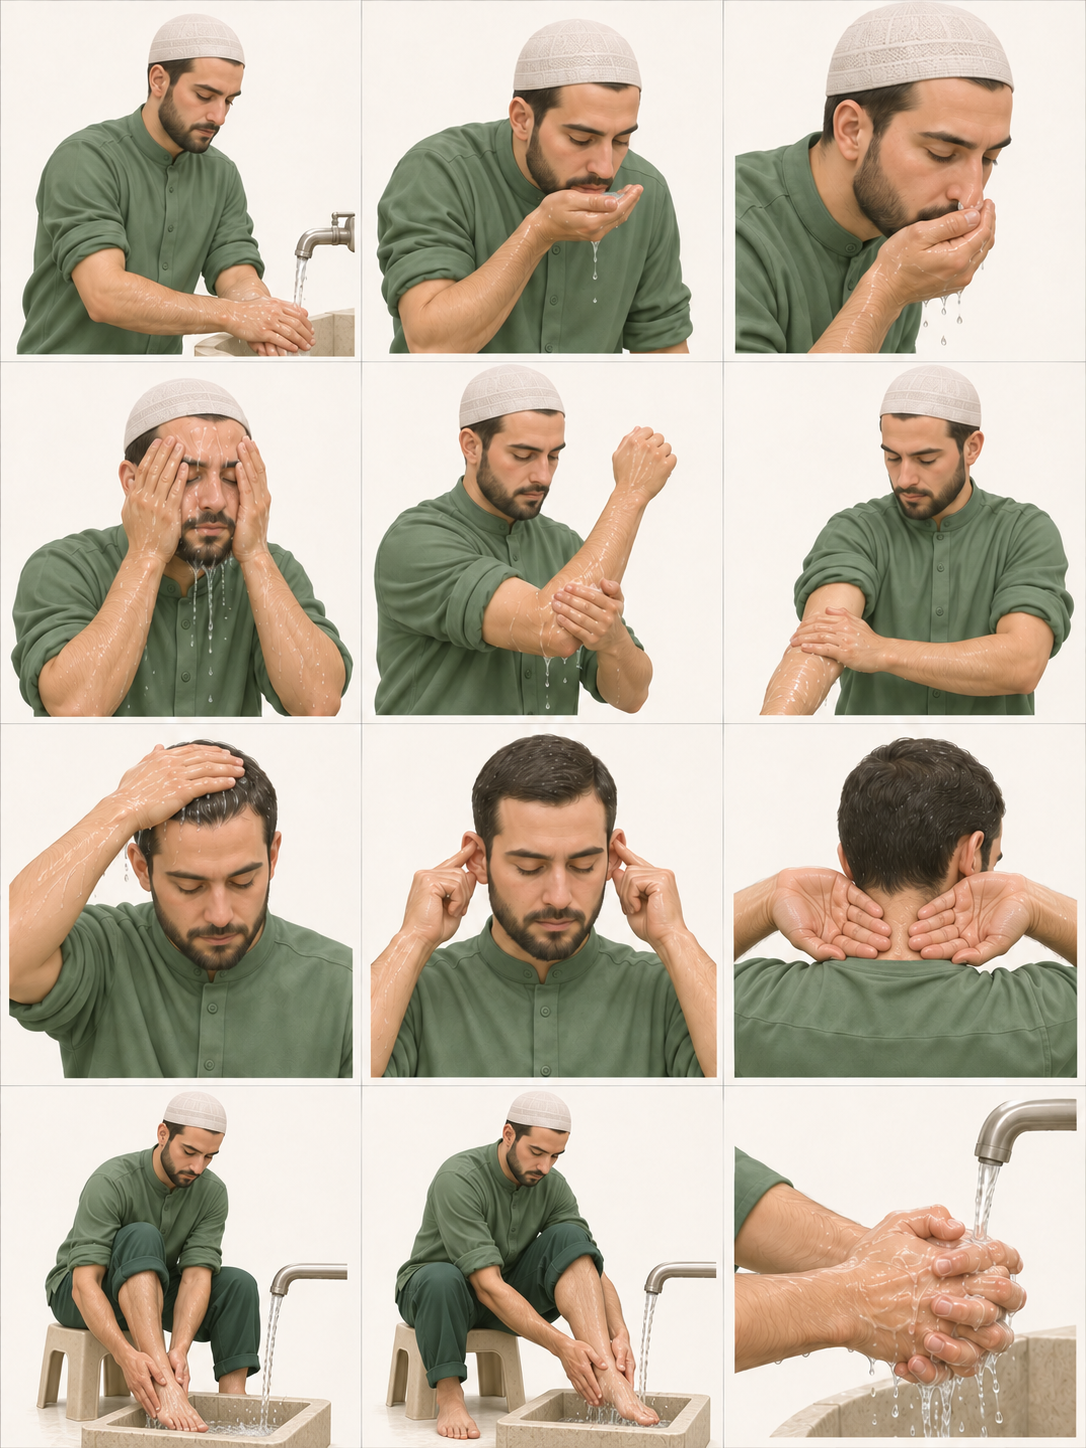
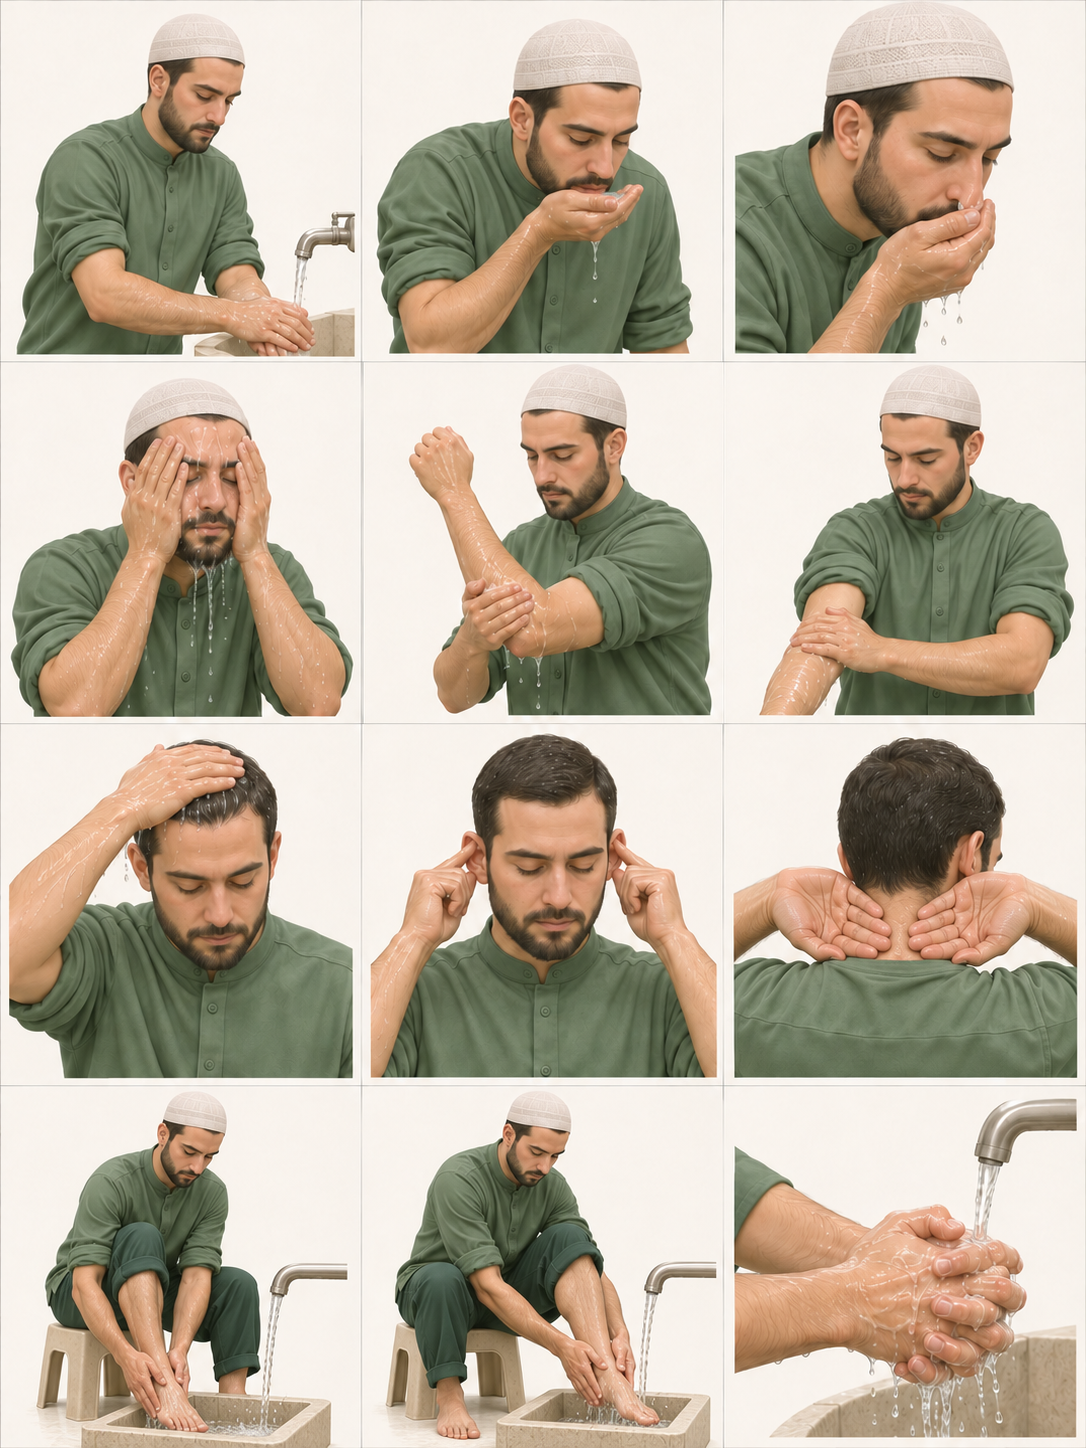
abdestduzeltmesi

Changed region(s): [[0.3343, 0.2486, 0.6685, 0.4972]]

diff --git a/assets/abdest.js b/assets/abdest.js
@@ -3,14 +3,14 @@ const data=[
  {name:'Niyet ve ellerin yıkanması',tile:0,count:'3 defa',kind:'Başlangıç ve sünnet',text:'Abdest almaya niyet edilir, besmele çekilir. İki el bileklere kadar yıkanır.',detail:'Parmak araları',note:'Parmak aralarını ovuşturarak suyun her yere ulaşmasını sağlayın.',zoom:11},
  {name:'Ağza su verilmesi',tile:1,count:'3 defa',kind:'Sünnet',text:'Sağ elle ağza su alınır. Ağız çalkalanır ve su dışarı çıkarılır.',detail:'Sağ el kullanılır',note:'Her çalkalamada yeniden su alınır; su yutulmaz.'},
  {name:'Burna su verilmesi',tile:2,count:'3 defa',kind:'Sünnet',text:'Sağ elle burna su alınır, ardından burun sol elle temizlenir.',detail:'Nazikçe temizleyin',note:'Oruçluyken ağza ve burna su verirken aşırıya kaçılmaz.'},
- {name:'Yüzün yıkanması',tile:3,count:'3 defa',kind:'İlk tam yıkama farz',text:'Alında saçın başladığı yerden çene altına ve iki kulak arasına kadar yüz yıkanır.',detail:'Yüzün sınırları',note:'Kuru yer bırakmayın; suyu gözlerin içine sokmak gerekmez.'},
- {name:'Sağ kolun yıkanması',tile:5,count:'3 defa',kind:'İlk tam yıkama farz',text:'Sağ kol, elden dirseğe kadar yıkanır. Dirsek de yıkamaya dâhildir.',detail:'Dirseği de yıkayın',note:'Suyu kolun her tarafına ulaştırın. Sağ ve sol, abdest alan kişinin kendi yönleridir.'},
- {name:'Sol kolun yıkanması',tile:4,count:'3 defa',kind:'İlk tam yıkama farz',text:'Aynı şekilde sol kol, dirsek dâhil yıkanır.',detail:'Kolun tamamı',note:'Kolun iç ve dış tarafında, dirsek çevresinde kuru yer bırakmayın.'},
+ {name:'Yüzün yıkanması',tile:3,count:'3 defa',kind:'1 defa farz · 3 defa sünnet',text:'Alında saçın başladığı yerden çene altına ve iki kulak arasına kadar yüz yıkanır.',detail:'Yüzün sınırları',note:'Kuru yer bırakmayın; suyu gözlerin içine sokmak gerekmez.'},
+ {name:'Sağ kolun yıkanması',tile:5,count:'3 defa',kind:'1 defa farz · 3 defa sünnet',text:'Sağ kol, elden dirseğe kadar yıkanır. Dirsek de yıkamaya dâhildir.',detail:'Dirseği de yıkayın',note:'Suyu kolun her tarafına ulaştırın. Sağ ve sol, abdest alan kişinin kendi yönleridir.'},
+ {name:'Sol kolun yıkanması',tile:4,count:'3 defa',kind:'1 defa farz · 3 defa sünnet',text:'Aynı şekilde sol kol, dirsek dâhil yıkanır.',detail:'Kolun tamamı',note:'Kolun iç ve dış tarafında, dirsek çevresinde kuru yer bırakmayın.'},
  {name:'Başın mesh edilmesi',tile:6,count:'1 defa',kind:'En az dörtte biri farz',text:'Islak el başa sürülerek mesh edilir. Hanefî uygulamasında başın en az dörtte biri mesh edilir; tamamının mesh edilmesi sünnettir.',detail:'El doğrudan başa temas eder',note:'Takke veya başörtüsünün üzerinden silmek yeterli değildir. Bacılar ellerini örtünün altına sokarak başlarını mesh edebilirler.'},
  {name:'Kulakların mesh edilmesi',tile:7,count:'1 defa',kind:'Sünnet',text:'Islak parmaklarla kulakların iç kıvrımları ve arkaları mesh edilir.',detail:'İç ve dış kısım',note:'İşaret parmakları iç kıvrımlara, başparmaklar kulakların arkasına sürülür. Kulaklar nazikçe mesh edilir.'},
- {name:'Boynun mesh edilmesi',tile:8,count:'1 defa',kind:'Âdâb · farz değildir',text:'İki elin arkasıyla ense ve boynun arka kısmı mesh edilir.',detail:'Elin arkası kullanılır',note:'Avuç içiyle boğaz sıvazlanmaz. Bu adım abdestin dört farzından biri değildir.'},
- {name:'Sağ ayağın yıkanması',tile:9,count:'3 defa',kind:'İlk tam yıkama farz',text:'Sağ ayak, parmaklardan başlayarak topuk ve aşık kemikleri dâhil yıkanır.',detail:'Parmak araları ve topuk',note:'Suyu parmak aralarına, ayağın altına ve topuğa ulaştırın. Ayak yalnızca ıslak elle silinmez; yıkanır.'},
- {name:'Sol ayağın yıkanması',tile:10,count:'3 defa',kind:'İlk tam yıkama farz',text:'Sol ayak da topuk ve aşık kemikleri dâhil yıkanır.',detail:'Kuru yer bırakmayın',note:'Parmak aralarını ve ayağın her tarafını kontrol edin. Böylece yıkama sırası tamamlanır.'}
+ {name:'Boynun mesh edilmesi',tile:8,count:'1 defa',kind:'Âdâb (müstehap)',text:'İki elin arkasıyla ense ve boynun arka kısmı mesh edilir.',detail:'Elin arkası kullanılır',note:'Avuç içiyle boğaz sıvazlanmaz. Bu adım abdestin dört farzından biri değildir.'},
+ {name:'Sağ ayağın yıkanması',tile:9,count:'3 defa',kind:'1 defa farz · 3 defa sünnet',text:'Sağ ayak, parmaklardan başlayarak topuk ve aşık kemikleri dâhil yıkanır.',detail:'Parmak araları ve topuk',note:'Suyu parmak aralarına, ayağın altına ve topuğa ulaştırın. Ayak yalnızca ıslak elle silinmez; yıkanır.'},
+ {name:'Sol ayağın yıkanması',tile:10,count:'3 defa',kind:'1 defa farz · 3 defa sünnet',text:'Sol ayak da topuk ve aşık kemikleri dâhil yıkanır.',detail:'Kuru yer bırakmayın',note:'Parmak aralarını ve ayağın her tarafını kontrol edin. Böylece yıkama sırası tamamlanır.'}
 ];
 const root=document.getElementById('abdest-steps'),select=document.getElementById('abdest-select');let current=0,all=false;
 function tile(n){return `<div class="abdest-tile" style="--abdest-pos:${(n%3)*50}% ${Math.floor(n/3)*100/3}%"></div>`;}

diff --git a/assets/mobil.css b/assets/mobil.css
@@ -72,12 +72,12 @@ html[data-tema] .konum-yazi b{font-size:calc(19px*var(--yazi))}
   .pose-main figcaption{padding-top:8px!important}
 
   /* detay fotoğrafları yan yana kaydırılan şerit */
-  .pose-details{display:flex!important;flex-direction:row;gap:12px;overflow-x:auto;scroll-snap-type:x mandatory;margin:0 -12px;padding:0 12px 6px;scrollbar-width:thin}
-  .pose-details .detail-card{flex:0 0 72%;display:block!important;scroll-snap-align:start;border:1px solid var(--t-line)!important;border-radius:10px;padding:10px!important;background:var(--t-surface)}
-  .pose-details .detail-card .photo-frame,.pose-details .detail-card .art-frame{width:100%;min-height:0!important;margin-bottom:8px}
-  .pose-details .detail-card .photo-frame img{max-height:150px!important;width:auto;max-width:100%;margin:auto}
-  .pose-details .detail-card h4{margin:0 0 4px}
-  .pose-details .pose-tip{display:none}
+  body.has-konum .pose-details{display:flex!important;flex-direction:row;gap:12px;overflow-x:auto;scroll-snap-type:x mandatory;margin:0 -12px;padding:0 12px 6px;scrollbar-width:thin}
+  body.has-konum .pose-details .detail-card{flex:0 0 72%;display:block!important;scroll-snap-align:start;border:1px solid var(--t-line)!important;border-radius:10px;padding:10px!important;background:var(--t-surface)}
+  body.has-konum .pose-details .detail-card .photo-frame,body.has-konum .pose-details .detail-card .art-frame{width:100%;min-height:0!important;margin-bottom:8px}
+  body.has-konum .pose-details .detail-card .photo-frame img{max-height:150px!important;width:auto;max-width:100%;margin:auto}
+  body.has-konum .pose-details .detail-card h4{margin:0 0 4px}
+  body.has-konum .pose-details .pose-tip{display:none}
 
   .movement-sequence{padding:14px!important}
   .movement-cards{display:flex!important;overflow-x:auto;gap:10px!important;scroll-snap-type:x mandatory}
@@ -91,4 +91,39 @@ html[data-tema] .konum-yazi b{font-size:calc(19px*var(--yazi))}
 
 /* 'Tüm adımları birlikte göster' görünüm paneline taşındı */
 body.has-konum .guide-tools{display:none}
-.panel-tum{width:100%;margin-top:16px;min-height:42px;border:1px solid var(--t-line);border-radius:8px;background:transparent;color:var(--t-accent);font:500 14px system-ui;cursor:pointer}
+
+
+/* Tüm adımlar / adım adım düğmesi: konum çubuğunun sağında */
+.gorunum-degis{flex:0 0 auto;display:inline-flex;align-items:center;gap:8px;min-height:40px;padding:8px 14px;border:1.5px solid var(--t-accent);border-radius:20px;background:var(--t-surface);color:var(--t-accent);font:600 14px system-ui;cursor:pointer;white-space:nowrap}
+.gorunum-degis:hover{background:var(--t-accent);color:var(--t-accent-ink)}
+.gorunum-degis[aria-pressed=true]{background:var(--t-accent);color:var(--t-accent-ink)}
+.gorunum-degis:focus-visible{outline:2px solid var(--t-accent);outline-offset:2px}
+.gorunum-degis .kisa{display:none}
+.ikon{width:16px;height:14px;display:inline-block;position:relative;flex:0 0 16px}
+.ikon-liste{background:linear-gradient(currentColor 0 0) 0 0/100% 2px no-repeat,linear-gradient(currentColor 0 0) 0 6px/100% 2px no-repeat,linear-gradient(currentColor 0 0) 0 12px/100% 2px no-repeat}
+.ikon-tek{border:2px solid currentColor;border-radius:3px;height:14px}
+body:not(.guide-mode) .konum-satir{padding-bottom:12px}
+@media (max-width:720px){
+  .gorunum-degis{min-height:34px;padding:6px 10px;font-size:12px;gap:6px}
+  .gorunum-degis .uzun{display:none}.gorunum-degis .kisa{display:inline}
+  .ikon{width:13px;flex-basis:13px}
+  .konum-adimlar{display:none}
+}
+
+/* ---------- Abdest sayfası ---------- */
+html[data-tema] .abdest-instruction{font-size:calc(19px*var(--yazi));line-height:1.75;color:var(--t-ink)}
+.abdest-page .guide-tools{border:0;padding:4px 0 0;flex-wrap:wrap;gap:12px}
+.abdest-page .guide-toggle{display:inline-flex;align-items:center;min-height:40px;padding:8px 16px;border:1.5px solid var(--t-accent)!important;border-radius:20px;background:var(--t-surface);color:var(--t-accent);font:600 14px system-ui}
+.abdest-page .guide-toggle[aria-pressed=true]{background:var(--t-accent);color:var(--t-accent-ink)}
+@media (max-width:720px){
+  .abdest-page .pose-layout{display:block!important;padding:12px!important}
+  .abdest-page .pose-main{max-width:100%!important;margin:0 0 14px}
+  .abdest-page .pose-details{display:block!important}
+  .abdest-page .abdest-badges{margin:0 0 6px}
+  .abdest-page .abdest-instruction{margin:8px 0 14px}
+  .abdest-page .detail-card{display:grid!important;grid-template-columns:110px minmax(0,1fr)!important;gap:14px!important;align-items:start;padding:12px 0!important}
+  .abdest-page .abdest-detail-art{max-width:110px}
+  .abdest-page .abdest-step h2{font-size:calc(24px*var(--yazi));margin:16px 0 14px}
+  .abdest-page .guide-tools label{width:100%}
+  .abdest-page .abdest-intro{font-size:14px}
+}

diff --git a/assets/mobil.js b/assets/mobil.js
@@ -20,8 +20,12 @@ if(panel&&document.querySelector('.recite')){
 }
 yaziUygula(parseInt(oku('namaz_yazi','1'),10)||1);
 const tumBtn=document.querySelector('.guide-toggle');
-if(panel&&tumBtn){const b=document.createElement('button');b.type='button';b.className='panel-tum';const ad=()=>b.textContent=document.body.classList.contains('guide-mode')?'Tüm adımları tek sayfada göster':'Adım adım görünüme dön';ad();
-  b.onclick=()=>{tumBtn.click();ad();panel.closest('details').open=false;};panel.append(b);}
+const satir=document.querySelector('.konum-satir');
+if(tumBtn&&satir){const b=document.createElement('button');b.type='button';b.className='gorunum-degis';
+  const ad=()=>{const adim=document.body.classList.contains('guide-mode');
+    b.innerHTML=adim?'<span class="ikon ikon-liste" aria-hidden="true"></span><span class="uzun">Tüm adımları göster</span><span class="kisa">Tüm adımlar</span>':'<span class="ikon ikon-tek" aria-hidden="true"></span><span class="uzun">Adım adım göster</span><span class="kisa">Adım adım</span>';
+    b.setAttribute('aria-label',adim?'Tüm adımları tek sayfada göster':'Adım adım görünüme dön');b.setAttribute('aria-pressed',String(!adim));};
+  ad();b.onclick=()=>{tumBtn.click();ad();};satir.append(b);}
 
 const steps=[...document.querySelectorAll('.step')];if(!steps.length)return;
 
